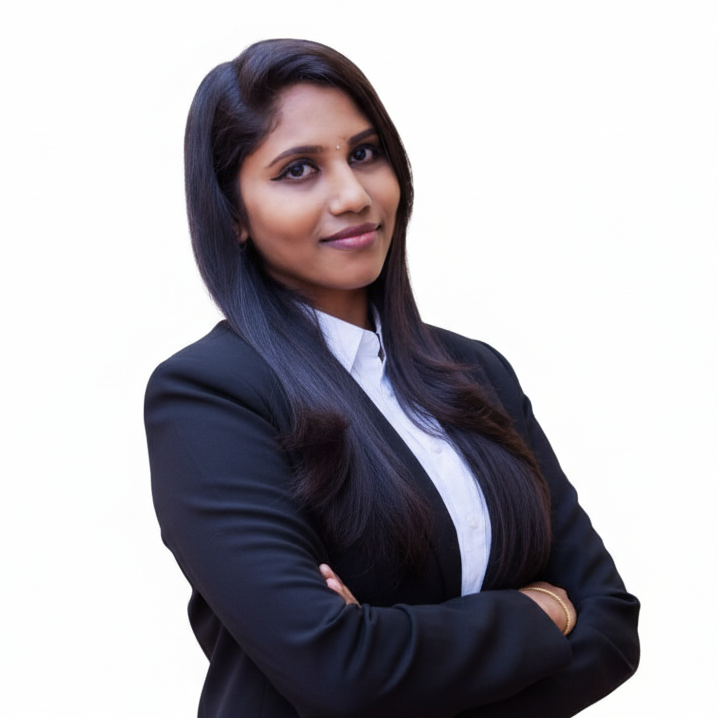
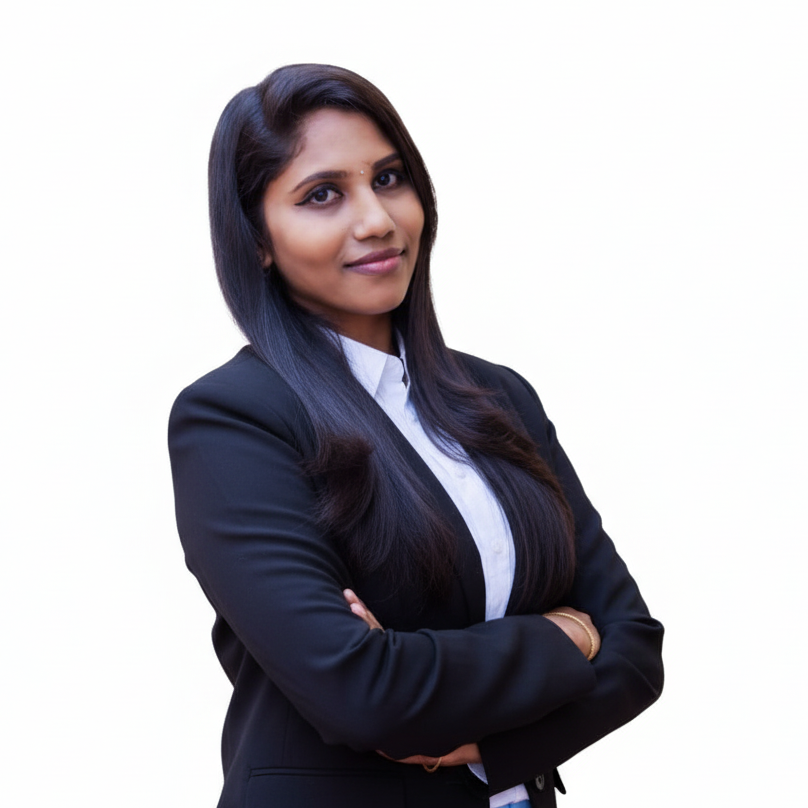
added number

Changed region(s): [[0.1838, 0.0306, 0.9192, 1.0], [0.2451, 0.2758, 0.2758, 0.3677], [0.2451, 0.9805, 0.2758, 1.0]]

diff --git a/src/Ourteam/TeamHierarchy.js b/src/Ourteam/TeamHierarchy.js
@@ -116,8 +116,8 @@ const teamMemberData =  [
 
 
   {"name": "Logeshwaran", "role": "FRANCHISE PARTNER", "phone": "81487 32017, 96553 63552", "email": "", "Branch": "Salem","image":Logeshwaran},
-  {"name": "Arun Kumar Pandey", "role": "FRANCHISE PARTNER", "phone": "", "email": "", "Branch": "DSNR","image":Arun},
-  {"name": "Ashok Uppara", "role": "FRANCHISE PARTNER", "phone": "", "email": "", "Branch": "DSNR","image":Ashok},
+  {"name": "Arun Kumar Pandey", "role": "FRANCHISE PARTNER", "phone": "+91 90305 08844", "email": "", "Branch": "DSNR","image":Arun},
+  {"name": "Ashok Uppara", "role": "FRANCHISE PARTNER", "phone": "+91 90001 88024", "email": "", "Branch": "DSNR","image":Ashok},
   {"name": "Veenadhari", "role": "FRANCHISE PARTNER", "phone": "", "email": "veenadharithoughtflows@gmail.com", "Branch": "Vizag","image":Veenadhari},
 
 

diff --git a/src/Contact/Contact.js b/src/Contact/Contact.js
@@ -93,7 +93,7 @@ function Contact() {
     {
       name: 'Salem',
       email: 'info@thoughtflows.in',
-      phone: '+91 8148732017 & +91 9384576852',
+      phone: '+91 8148732017 , +91 9384576852 & +91 90305 08844 ',
       address: '1st floor, S Square Towers, Omalur Main Rd, Arthanari Nagar, Mamangam, Salem, Tamil Nadu 636302',
     },
     {
